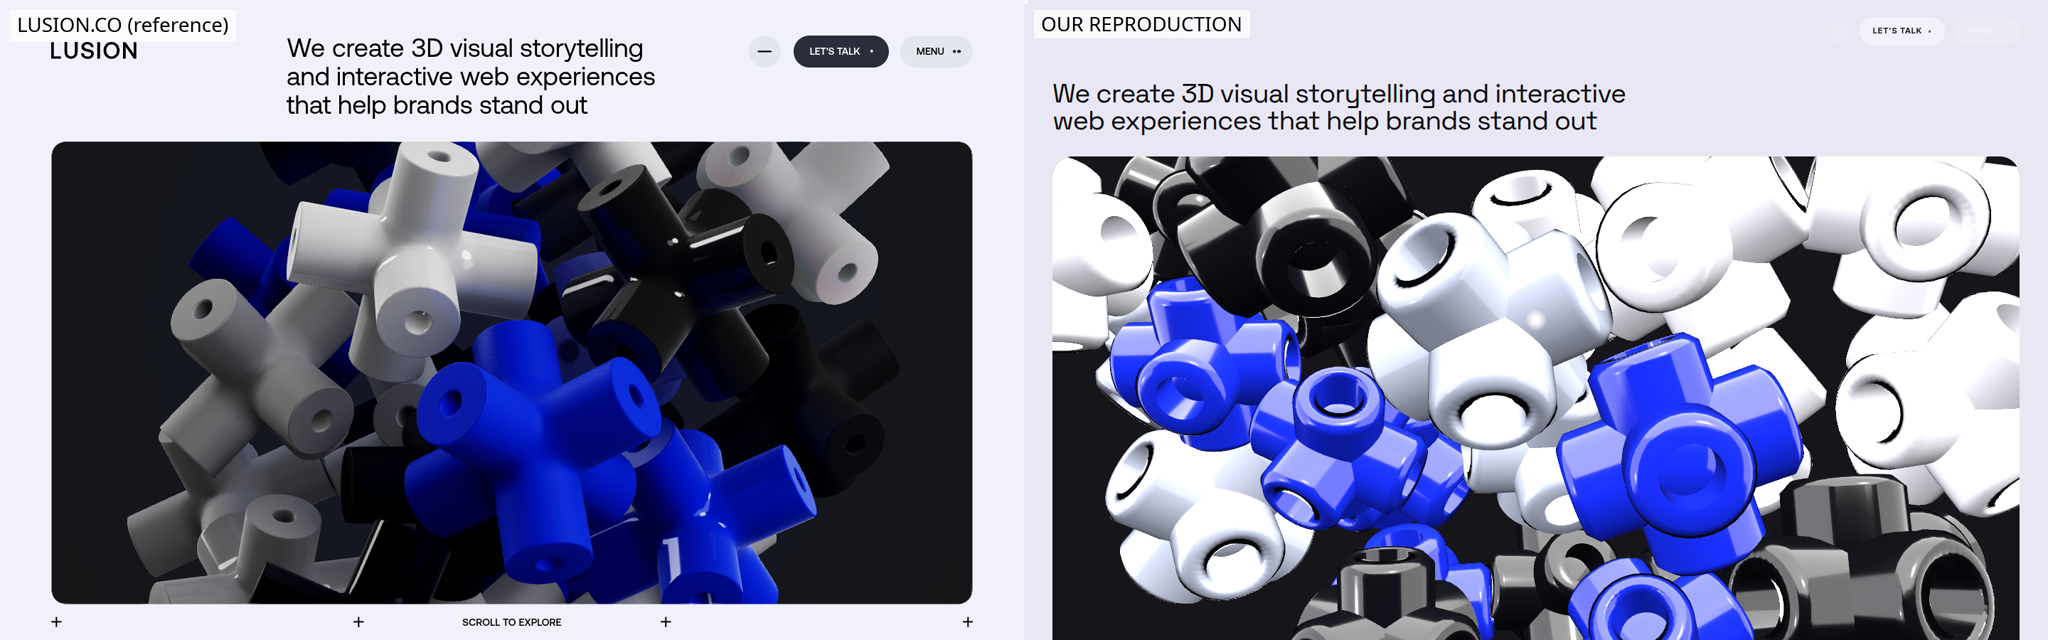
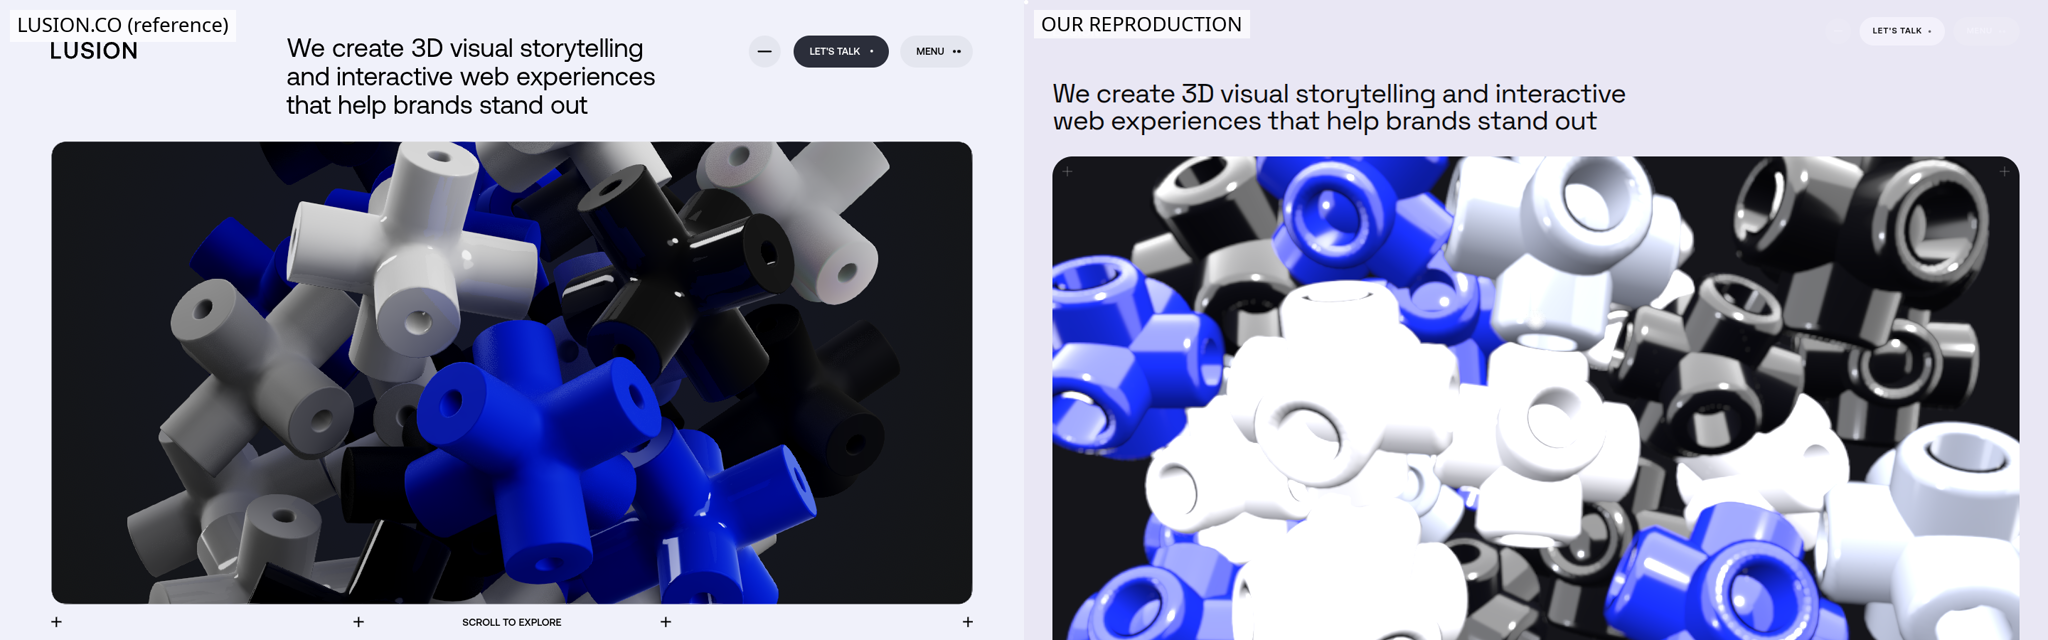
polish(hero): balanced colour distribution (shuffled bag) + subtle depth-of-field bokeh on far pieces; refresh comparison/self captures

diff --git a/components/sections/hero/JackPit.tsx b/components/sections/hero/JackPit.tsx
@@ -53,8 +53,39 @@ type Body = {
 
 type Bounds = { halfW: number; halfH: number; halfD: number };
 
+/**
+ * A balanced, shuffled colour bag so every load shows a good cobalt/white/
+ * black/grey mix (pure per-body random sometimes came out white-heavy). Weights
+ * track the reference: cobalt + white lead, black + grey accent.
+ */
+function colorBag(count: number): number[] {
+  // weights per JACK_COLORS index (0,1 cobalt · 2,3 white · 4,5 black · 6 grey)
+  const weights: Array<[number, number]> = [
+    [0, 0.16],
+    [1, 0.16],
+    [2, 0.13],
+    [3, 0.13],
+    [4, 0.13],
+    [5, 0.13],
+    [6, 0.16],
+  ];
+  const bag: number[] = [];
+  for (const [idx, w] of weights) {
+    const n = Math.round(w * count);
+    for (let i = 0; i < n; i++) bag.push(idx);
+  }
+  while (bag.length < count) bag.push(0);
+  // Fisher–Yates shuffle
+  for (let i = bag.length - 1; i > 0; i--) {
+    const j = Math.floor(Math.random() * (i + 1));
+    [bag[i], bag[j]] = [bag[j], bag[i]];
+  }
+  return bag;
+}
+
 function buildBodies(count: number, bounds: Bounds): Body[] {
-  return Array.from({ length: count }, () => {
+  const bag = colorBag(count);
+  return Array.from({ length: count }, (_, i) => {
     // Big chunky pieces with some variation for depth read.
     const scale = 1.25 + Math.random() * 0.65;
     return {
@@ -78,8 +109,7 @@ function buildBodies(count: number, bounds: Bounds): Body[] {
       ),
       radius: 0.5 * scale,
       scale,
-      // random colour for a natural, non-repeating distribution
-      colorIdx: Math.floor(Math.random() * JACK_COLORS.length),
+      colorIdx: bag[i],
     };
   });
 }

diff --git a/components/sections/hero/HeroCanvas.tsx b/components/sections/hero/HeroCanvas.tsx
@@ -3,7 +3,7 @@
 import { useMemo, useRef } from "react";
 import { Vector2 } from "three";
 import { Canvas, useFrame, useThree } from "@react-three/fiber";
-import { EffectComposer } from "@react-three/postprocessing";
+import { DepthOfField, EffectComposer } from "@react-three/postprocessing";
 import JackPit from "@/components/sections/hero/JackPit";
 import { MouseDisplacementEffect } from "@/lib/three/MouseDisplacementEffect";
 import { useApp } from "@/lib/store";
@@ -51,6 +51,13 @@ function HeroDisplacement() {
 
   return (
     <EffectComposer>
+      {/* subtle bokeh: keep the front pile crisp, soften the far pieces (like
+          the reference) */}
+      <DepthOfField
+        focusDistance={0.012}
+        focalLength={0.025}
+        bokehScale={2.2}
+      />
       <primitive object={effect} />
     </EffectComposer>
   );